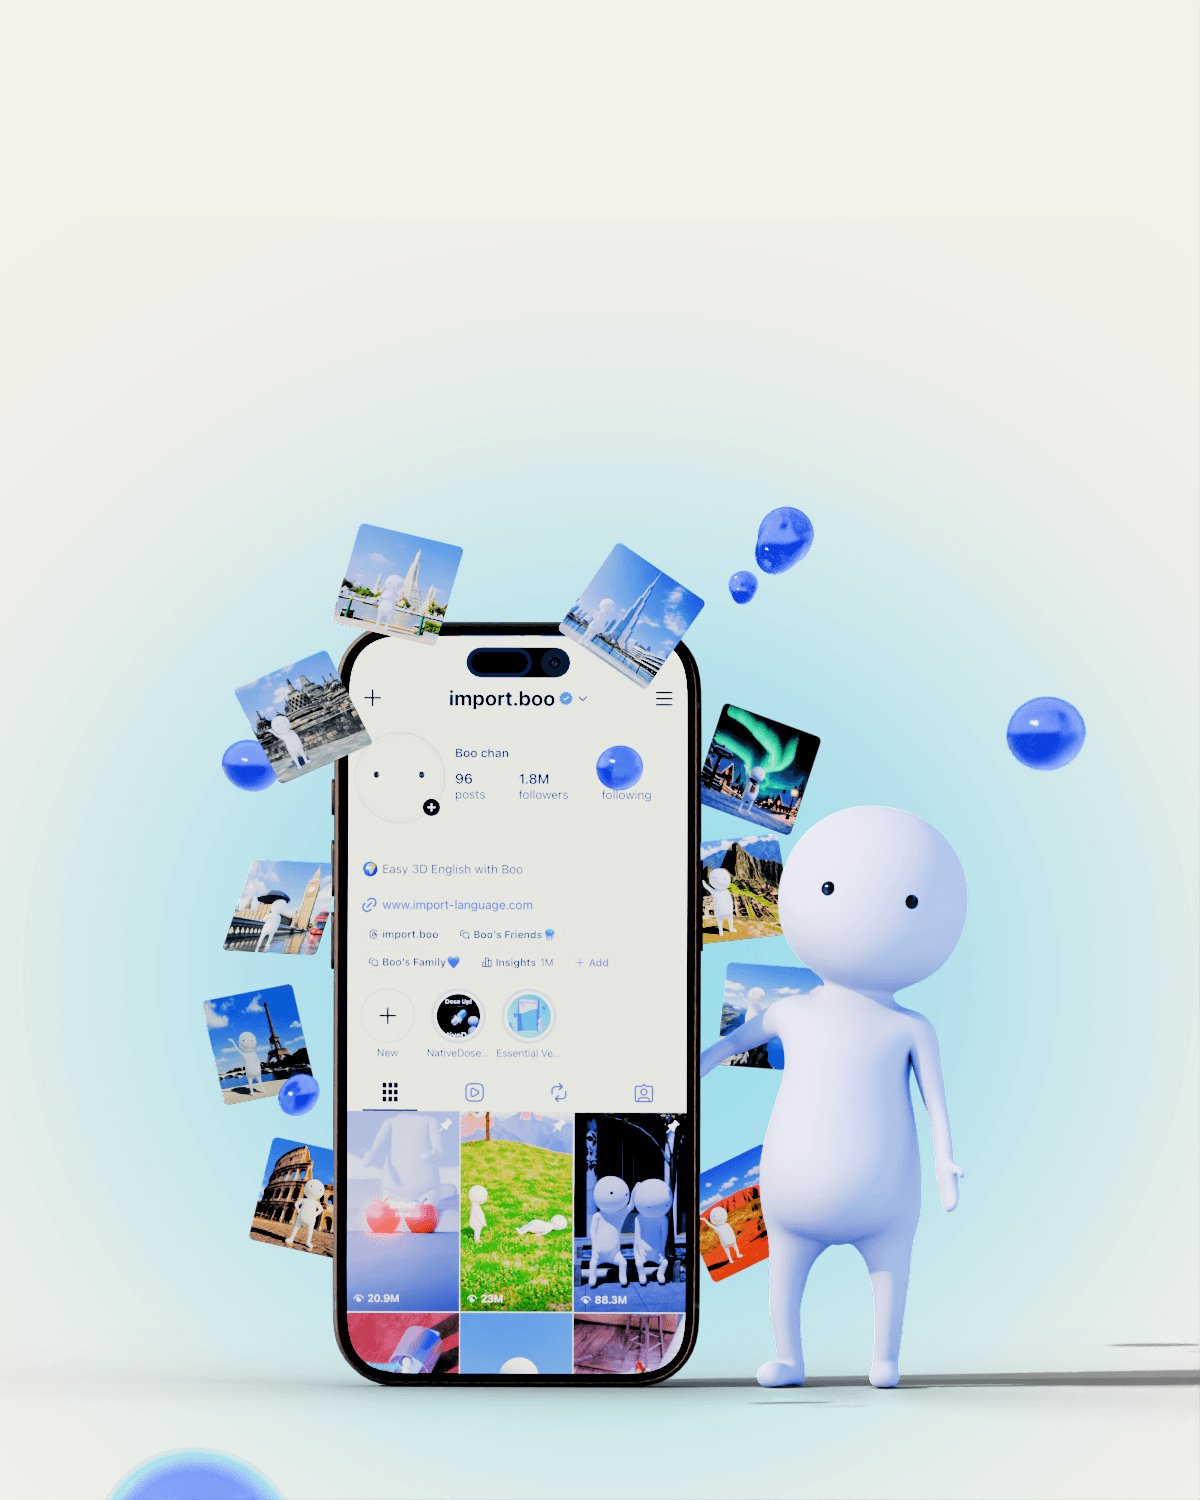
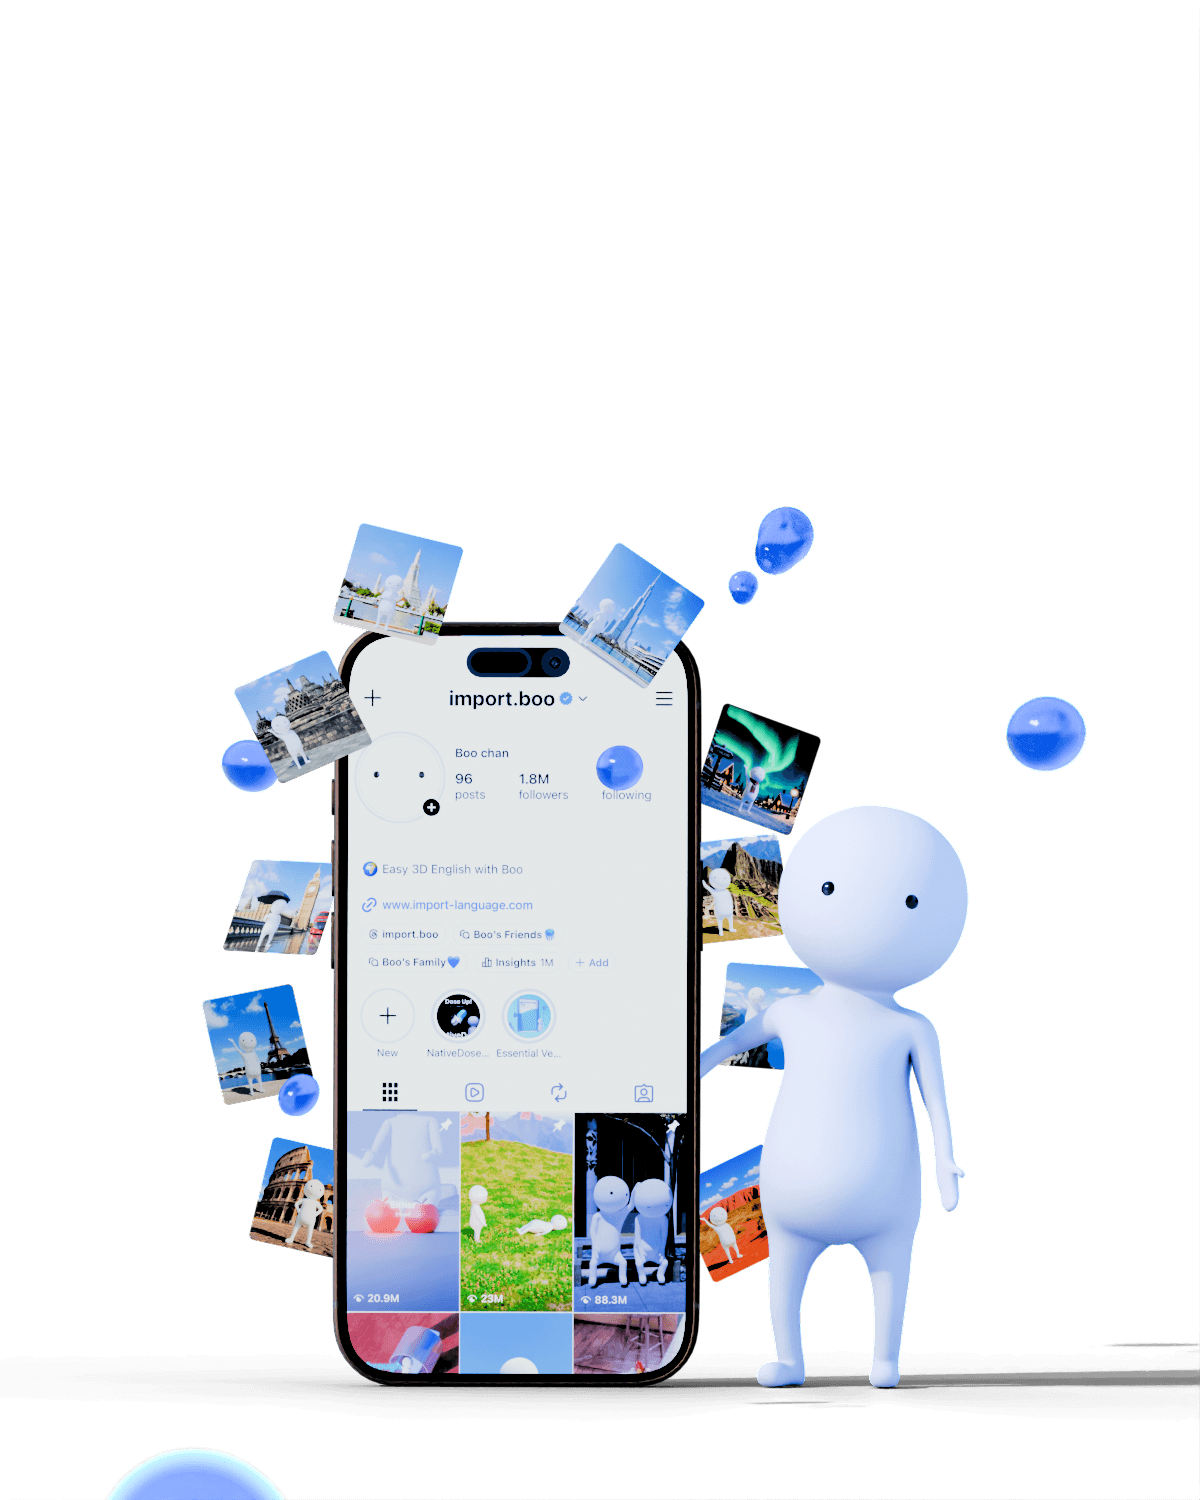
Authority: full-bleed dark cinematic with transparent Boo image

diff --git a/index.html b/index.html
@@ -617,35 +617,92 @@ body{
 .inside-product .name{font-family: var(--en); font-size: 14px; font-weight: 700; letter-spacing: -0.01em}
 .inside-product .desc{font-size: 11px; color: rgba(255,255,255,0.55); margin-top: 2px}
 
-/* ========== AUTHORITY (Boo / import) ========== */
+/* ========== AUTHORITY (Boo / import) - DARK FULL BLEED ========== */
 .authority{
-  background: white;
-  padding: 120px 24px;
   position: relative;
+  padding: 0;
   overflow: hidden;
+  background:
+    radial-gradient(circle at 70% 50%, rgba(0, 102, 255, 0.18) 0%, transparent 55%),
+    radial-gradient(circle at 30% 30%, rgba(0, 212, 255, 0.08) 0%, transparent 50%),
+    linear-gradient(180deg, #0a0e1c 0%, #050810 100%);
+  color: white;
 }
-.authority::before{
-  content: '';
+
+/* Full-bleed background image - transparent PNG over dark bg */
+.authority-bg{
   position: absolute;
-  top: -200px; right: -200px;
-  width: 600px; height: 600px;
-  background: radial-gradient(circle, var(--blue-soft) 0%, transparent 70%);
+  inset: 0;
+  z-index: 0;
+}
+.authority-bg img{
+  width: 100%;
+  height: 100%;
+  object-fit: cover;
+  object-position: right center;
+  display: block;
+}
+
+/* Subtle left-side darkening for text legibility */
+.authority-overlay{
+  position: absolute;
+  inset: 0;
+  z-index: 1;
+  background:
+    linear-gradient(
+      90deg,
+      rgba(5, 8, 16, 0.85) 0%,
+      rgba(5, 8, 16, 0.55) 30%,
+      rgba(5, 8, 16, 0.15) 55%,
+      rgba(5, 8, 16, 0) 75%
+    );
   pointer-events: none;
 }
+
 .authority-grid{
   position: relative;
+  z-index: 2;
   max-width: 1120px;
   margin: 0 auto;
   display: grid;
   grid-template-columns: 1fr 1fr;
   gap: 80px;
   align-items: center;
+  padding: 140px 24px;
+  min-height: 720px;
 }
 @media (max-width: 900px){
-  .authority-grid{grid-template-columns: 1fr; gap: 48px}
+  .authority{
+    background:
+      radial-gradient(circle at 50% 60%, rgba(0, 102, 255, 0.18) 0%, transparent 55%),
+      linear-gradient(180deg, #0a0e1c 0%, #050810 100%);
+  }
+  .authority-grid{grid-template-columns: 1fr; gap: 40px; min-height: auto; padding: 80px 20px}
 }
 
-.authority-content .section-eyebrow{margin-bottom: 16px}
+.authority-content{position: relative}
+.authority-content .section-eyebrow{
+  margin-bottom: 16px;
+  color: var(--accent);
+}
+.authority-content .section-eyebrow::before{background: var(--accent)}
+
+.authority-content .section-title{
+  color: white;
+}
+.authority-content .section-title .blue{
+  background: linear-gradient(120deg, var(--accent) 0%, var(--blue-light) 100%);
+  -webkit-background-clip: text;
+  background-clip: text;
+  color: transparent;
+}
+
+.authority-content .section-lead{
+  color: rgba(255, 255, 255, 0.85);
+}
+
+.authority-content p{color: rgba(255, 255, 255, 0.7) !important}
+.authority-content p strong{color: white}
 
 .authority-stats{
   display: grid;
@@ -653,9 +710,11 @@ body{
   gap: 16px;
   margin-top: 32px;
   padding: 24px;
-  background: var(--bg-soft);
+  background: rgba(255, 255, 255, 0.05);
+  backdrop-filter: blur(12px);
+  -webkit-backdrop-filter: blur(12px);
   border-radius: 16px;
-  border: 1px solid var(--line);
+  border: 1px solid rgba(255, 255, 255, 0.1);
 }
 .authority-stat .num-big{
   font-family: var(--en);
@@ -663,102 +722,43 @@ body{
   font-weight: 800;
   letter-spacing: -0.025em;
   line-height: 1;
-  color: var(--ink);
+  color: white;
 }
-.authority-stat .num-big .plus{color: var(--blue); font-size: 0.7em}
+.authority-stat .num-big .plus{color: var(--accent); font-size: 0.7em}
 .authority-stat .label{
   font-size: 11px;
   font-weight: 600;
-  color: var(--text-soft);
+  color: rgba(255, 255, 255, 0.6);
   letter-spacing: 0.05em;
   margin-top: 6px;
   line-height: 1.4;
 }
 
+/* Right column - empty on PC (image fills via background), shows image on mobile */
 .authority-visual{
   position: relative;
-  aspect-ratio: 1;
-  max-width: 480px;
+  max-width: 560px;
   margin: 0 auto;
-  background: linear-gradient(135deg, var(--ink) 0%, var(--ink-3) 100%);
-  border-radius: 24px;
-  overflow: hidden;
   display: flex;
   align-items: center;
   justify-content: center;
-  box-shadow: var(--shadow-lg);
 }
-.authority-visual::before{
-  content: '';
-  position: absolute;
-  inset: 0;
-  background:
-    radial-gradient(circle at 30% 30%, rgba(0, 212, 255, 0.3) 0%, transparent 50%),
-    radial-gradient(circle at 70% 70%, rgba(0, 102, 255, 0.4) 0%, transparent 50%);
+.about-img{
+  display: block;
+  width: 100%;
 }
-.authority-visual::after{
-  content: '';
-  position: absolute;
-  inset: 0;
-  background-image:
-    linear-gradient(rgba(255,255,255,0.04) 1px, transparent 1px),
-    linear-gradient(90deg, rgba(255,255,255,0.04) 1px, transparent 1px);
-  background-size: 32px 32px;
+.about-img img{
+  display: block;
+  width: 100%;
+  height: auto;
+  object-fit: contain;
 }
-.boo-placeholder{
-  position: relative;
-  z-index: 2;
-  text-align: center;
-  color: white;
-  padding: 32px;
+@media (min-width: 901px){
+  .authority-visual{display: none}
 }
-.boo-placeholder .boo-orb{
-  width: 180px; height: 180px;
-  border-radius: 50%;
-  background: radial-gradient(circle at 30% 30%, var(--accent) 0%, var(--blue) 60%, var(--ink) 100%);
-  margin: 0 auto 24px;
-  box-shadow: 0 0 80px rgba(0, 212, 255, 0.4), inset 0 0 40px rgba(0,0,0,0.3);
-  animation: float 6s ease-in-out infinite;
-}
-.boo-placeholder .name{
-  font-family: var(--en);
-  font-size: 36px;
-  font-weight: 800;
-  letter-spacing: -0.02em;
-  margin-bottom: 8px;
-}
-.boo-placeholder .handle{
-  font-family: var(--en);
-  font-size: 14px;
-  color: rgba(255,255,255,0.6);
-  letter-spacing: 0.05em;
-  margin-bottom: 20px;
-}
-.boo-placeholder .insta{
-  display: inline-flex;
-  align-items: center;
-  gap: 8px;
-  padding: 10px 18px;
-  background: rgba(255,255,255,0.1);
-  border: 1px solid rgba(255,255,255,0.18);
-  border-radius: 100px;
-  font-size: 12px;
-  font-weight: 600;
-  color: white;
-  text-decoration: none;
-  backdrop-filter: blur(8px);
-}
-.boo-placeholder .image-note{
-  position: absolute;
-  bottom: 20px;
-  left: 50%;
-  transform: translateX(-50%);
-  font-family: var(--en);
-  font-size: 10px;
-  letter-spacing: 0.2em;
-  color: rgba(255,255,255,0.3);
-  text-transform: uppercase;
-  white-space: nowrap;
+@media (max-width: 900px){
+  .authority-bg{display: none}
+  .authority-overlay{display: none}
 }
 
 /* ========== SECTION COMMON ========== */
@@ -2357,6 +2357,12 @@ footer .copy{font-family: var(--en); opacity: 0.5; margin-top: 16px}
 
 <!-- ========== AUTHORITY (Boo / import) ========== -->
 <section class="authority">
+  <picture class="authority-bg">
+    <source media="(max-width: 900px)" srcset="images/about-mobile.png">
+    <img src="images/about-pc.png" alt="" />
+  </picture>
+  <div class="authority-overlay"></div>
+
   <div class="authority-grid">
     <div class="authority-content">
       <div class="section-eyebrow">About import</div>
@@ -2389,16 +2395,10 @@ footer .copy{font-family: var(--en); opacity: 0.5; margin-top: 16px}
     </div>
 
     <div class="authority-visual">
-      <div class="boo-placeholder">
-        <div class="boo-orb"></div>
-        <div class="name">Boo</div>
-        <div class="handle">@import.boo</div>
-        <a href="#" class="insta">
-          <svg width="14" height="14" viewBox="0 0 24 24" fill="none" stroke="currentColor" stroke-width="2"><rect x="2" y="2" width="20" height="20" rx="5" ry="5"/><path d="M16 11.37A4 4 0 1 1 12.63 8 4 4 0 0 1 16 11.37z"/><line x1="17.5" y1="6.5" x2="17.51" y2="6.5"/></svg>
-          1,000,000+ Followers
-        </a>
-        <div class="image-note">— Instagram 実績画像 挿入予定</div>
-      </div>
+      <picture class="about-img">
+        <source media="(max-width: 768px)" srcset="images/about-mobile.png">
+        <img src="images/about-pc.png" alt="Boo on Instagram @import.boo" />
+      </picture>
     </div>
   </div>
 </section>
